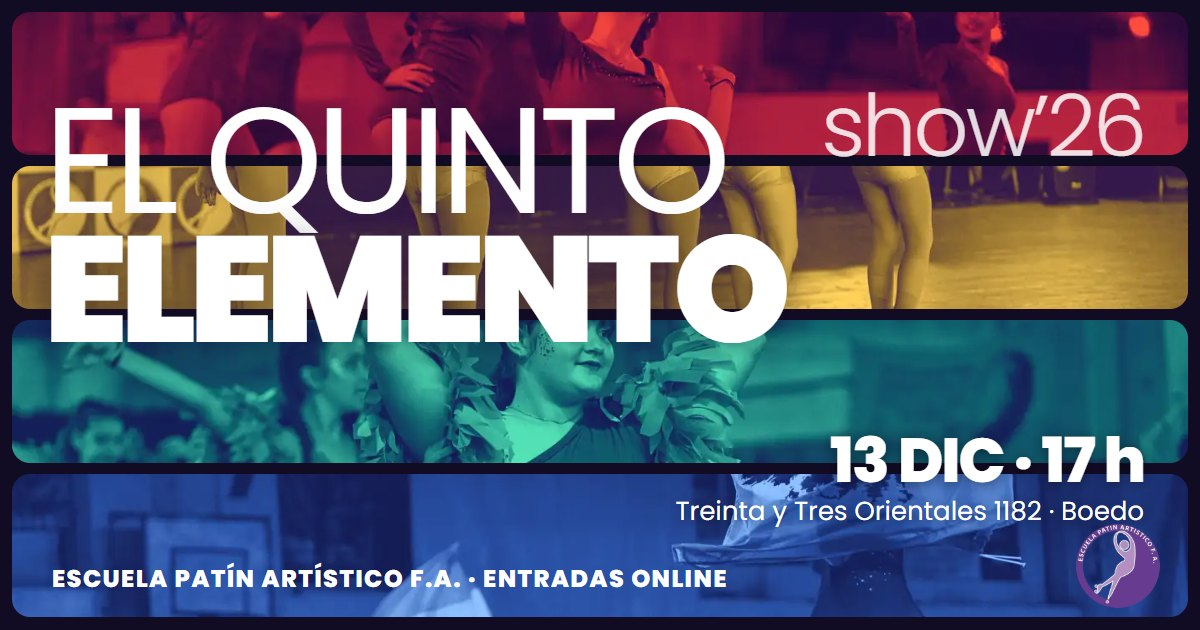
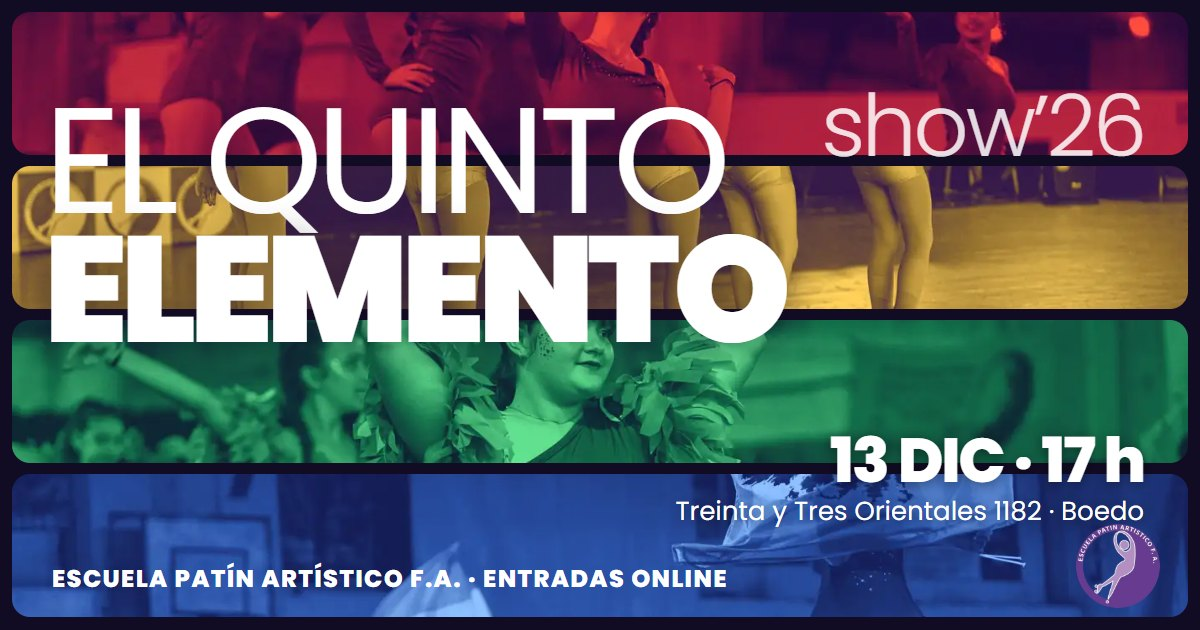
Correcciones de Flor: colores de los elementos, desde 11 años, 200 patinadoras, patinadores sin cargo, compra segura y redes

Changed region(s): [[0.0, 0.4825, 1.0, 0.754]]

diff --git a/index.html b/index.html
@@ -25,10 +25,11 @@
 @property --giro{syntax:"<angle>";inherits:false;initial-value:0deg}
 @property --n{syntax:"<integer>";inherits:true;initial-value:1}
 :root{
-  --fuego:#ff4a3d; --tierra:#ffc53d; --agua:#3fd6ae; --aire:#7fb2ff; --quinto:#cfa8f2; --violeta:#663B8F;
+  /* Colores de Flor: rojo fuego, amarillo aire, verde tierra, azul agua (y el violeta de la marca). */
+  --fuego:#ff4a3d; --aire:#ffc53d; --tierra:#4cd98a; --agua:#5b9cff; --quinto:#cfa8f2; --violeta:#663B8F;
   --noche:#120b24; --noche-2:#1b1236; --noche-3:#271a4c; --tinta:#f7f2fc; --gris:#bcb1d6;
   /* Variantes derivadas de cada color (color relativo): sin inventar códigos a mano. */
-  --fuego-osc:#8a1a2a; --tierra-osc:#7a5410; --agua-osc:#0d5c55; --aire-osc:#21407e;
+  --fuego-osc:#8a1a2a; --aire-osc:#7a5410; --tierra-osc:#0d5c3a; --agua-osc:#21407e;
   --f:'Poppins',system-ui,sans-serif;
   --borde:16px; --hueco:7px;
 }
@@ -58,13 +59,13 @@ h2,h3{text-wrap:balance;}
 .banda:nth-child(2){--n:2}.banda:nth-child(3){--n:3}.banda:nth-child(4){--n:4}
 @supports (order:sibling-index()){ .banda{--n:sibling-index();} }
 .fuego{--c:var(--fuego);--c-osc:var(--fuego-osc);} .fuego img{object-position:50% 40%;}
-.tierra{--c:var(--tierra);--c-osc:var(--tierra-osc);} .tierra img{object-position:50% 55%;}
-.agua{--c:var(--agua);--c-osc:var(--agua-osc);} .agua img{object-position:50% 30%;}
-.aire{--c:var(--aire);--c-osc:var(--aire-osc);} .aire img{object-position:50% 35%;}
+.aire{--c:var(--aire);--c-osc:var(--aire-osc);} .aire img{object-position:50% 55%;}
+.tierra{--c:var(--tierra);--c-osc:var(--tierra-osc);} .tierra img{object-position:50% 30%;}
+.agua{--c:var(--agua);--c-osc:var(--agua-osc);} .agua img{object-position:50% 35%;}
 .rotulo{position:absolute;left:14px;top:10px;font-weight:600;font-size:11px;letter-spacing:.32em;text-transform:uppercase;color:#fff;opacity:.85;
   text-shadow:0 1px 8px rgba(0,0,0,.5);}
 .rotulo b{font-weight:900;margin-right:6px;color:var(--c);}
-.tierra .rotulo{top:auto;bottom:10px;}   /* arriba lo tapa "ELEMENTO" */
+.banda:nth-child(2) .rotulo{top:auto;bottom:10px;left:auto;right:14px;}   /* arriba lo tapa "ELEMENTO"; a la izquierda, la ráfaga del borde */
 
 /* El borde de abajo de cada banda tiene la forma de su elemento (shape(): se adapta al ancho). */
 @supports (clip-path:shape(from 0 0, line to 100% 0)){
@@ -115,7 +116,7 @@ h1 .grueso span:nth-child(5){--k:4}h1 .grueso span:nth-child(6){--k:5}h1 .grueso
 .comprar{position:relative;display:inline-flex;flex-direction:column;align-items:flex-start;gap:2px;text-decoration:none;color:#fff;
   padding:14px 22px 13px;border-radius:999px;border:3px solid transparent;font-weight:800;font-size:17px;letter-spacing:.02em;line-height:1.1;
   background:linear-gradient(var(--violeta),var(--violeta)) padding-box,
-             conic-gradient(from var(--giro),var(--fuego),var(--tierra),var(--agua),var(--aire),var(--quinto),var(--fuego)) border-box;
+             conic-gradient(from var(--giro),var(--fuego),var(--aire),var(--tierra),var(--agua),var(--quinto),var(--fuego)) border-box;
   box-shadow:0 12px 34px rgba(102,59,143,.55);animation:aro 5s linear infinite;}
 .comprar small{font-weight:400;font-size:12.5px;letter-spacing:.04em;opacity:.9;}
 .comprar:focus-visible{outline:3px solid #fff;outline-offset:3px;}
@@ -150,13 +151,17 @@ h2 em{font-style:normal;font-weight:300;}
 .reglas{display:grid;gap:10px;margin-top:6px;}
 .regla{display:flex;gap:12px;align-items:flex-start;background:rgba(255,255,255,.04);border-radius:16px;padding:13px 15px;font-size:15px;}
 .regla i{font-style:normal;font-size:20px;line-height:1.3;}
+.seguro{display:grid;grid-template-columns:34px 1fr;gap:12px;align-items:start;margin-top:14px;padding:15px 16px;border-radius:16px;font-size:14.5px;
+  background:color-mix(in srgb,var(--tierra) 10%,transparent);border:1.5px solid color-mix(in srgb,var(--tierra) 55%,transparent);}
+.seguro svg{width:34px;height:34px;color:var(--tierra);}
+.seguro b{color:var(--tierra);}
 .accion{display:flex;flex-wrap:wrap;align-items:center;gap:14px;margin-top:22px;}
 .cuenta{font-size:14px;color:var(--gris);}
 .cuenta b{color:var(--tinta);}
 .pasos{counter-reset:p;display:grid;gap:10px;margin-top:30px;}
 .pasos li{list-style:none;counter-increment:p;display:grid;grid-template-columns:42px 1fr;gap:12px;align-items:start;font-size:15px;}
 .pasos li::before{content:counter(p);display:grid;place-items:center;width:42px;height:42px;border-radius:50%;font-weight:800;color:#1a0f33;background:var(--c,var(--quinto));}
-.pasos li:nth-child(1){--c:var(--fuego)}.pasos li:nth-child(2){--c:var(--tierra)}.pasos li:nth-child(3){--c:var(--agua)}
+.pasos li:nth-child(1){--c:var(--fuego)}.pasos li:nth-child(2){--c:var(--aire)}.pasos li:nth-child(3){--c:var(--tierra)}
 .pasos b{display:block;font-size:16px;}
 
 /* Los cinco elementos: fichas y panel. La ficha elegida "entra" con @starting-style. */
@@ -237,6 +242,23 @@ h2 em{font-style:normal;font-weight:300;}
 .cifra b{display:block;font-weight:900;font-size:clamp(26px,7vw,40px);letter-spacing:-.03em;line-height:1;background:linear-gradient(90deg,var(--c1),var(--c2));
   -webkit-background-clip:text;background-clip:text;color:transparent;}
 .cifra span{font-size:13px;color:var(--gris);}
+/* Redes de la escuela: íconos con los colores de cada marca */
+.redes{display:flex;flex-wrap:wrap;gap:10px;margin-top:14px;}
+.red{display:inline-flex;align-items:center;gap:10px;text-decoration:none;color:var(--tinta);background:rgba(255,255,255,.06);
+  border:1px solid rgba(255,255,255,.12);border-radius:16px;padding:8px 16px 8px 8px;transition:background .25s,translate .25s;}
+.red:hover{background:rgba(255,255,255,.12);translate:0 -2px;}
+.red:focus-visible{outline:3px solid var(--quinto);outline-offset:2px;}
+.red span{display:grid;place-items:center;width:42px;height:42px;border-radius:12px;color:#fff;flex:none;}
+.red svg{width:24px;height:24px;}
+.red b{display:block;font-size:15px;line-height:1.1;}
+.red small{display:block;font-size:12px;color:var(--gris);}
+.red.ig span{background:radial-gradient(circle at 30% 107%,#fdf497 0%,#fd5949 45%,#d6249f 60%,#285AEB 90%);}
+.red.tt span{background:#000;}
+.red.tt svg{filter:drop-shadow(-1.5px -1px 0 #25f4ee) drop-shadow(1.5px 1px 0 #fe2c55);}
+.redes.chicas .red{padding:5px 13px 5px 5px;border-radius:12px;font-weight:600;font-size:14px;}
+.redes.chicas .red span{width:32px;height:32px;border-radius:9px;}
+.redes.chicas .red svg{width:18px;height:18px;}
+footer .redes{margin-top:4px;}
 .sedes{display:flex;flex-wrap:wrap;gap:6px;margin-top:16px;}
 .sedes span{font-size:13px;border:1px solid rgba(255,255,255,.14);border-radius:99px;padding:5px 12px;color:var(--gris);}
 .lugar{display:grid;grid-template-columns:1fr 1fr;gap:18px;align-items:start;margin-top:20px;}
@@ -284,13 +306,18 @@ footer .envase{display:grid;gap:8px;}
 </style>
 </head>
 <body>
+<!-- Íconos de las redes de la escuela (se usan con <use href="#i-ig">) -->
+<svg width="0" height="0" style="position:absolute" aria-hidden="true" focusable="false">
+  <symbol id="i-ig" viewBox="0 0 24 24"><rect x="3" y="3" width="18" height="18" rx="5.5" fill="none" stroke="currentColor" stroke-width="2.2"/><circle cx="12" cy="12" r="4.3" fill="none" stroke="currentColor" stroke-width="2.2"/><circle cx="17.4" cy="6.6" r="1.35" fill="currentColor"/></symbol>
+  <symbol id="i-tt" viewBox="0 0 24 24"><path fill="currentColor" d="M12.525.02c1.31-.02 2.61-.01 3.91-.02.08 1.53.63 3.09 1.75 4.17 1.12 1.11 2.7 1.62 4.24 1.79v4.03c-1.44-.05-2.89-.35-4.2-.97-.57-.26-1.1-.59-1.62-.93-.01 2.92.01 5.84-.02 8.75-.08 1.4-.54 2.79-1.35 3.94-1.31 1.92-3.58 3.17-5.91 3.21-1.43.08-2.86-.31-4.08-1.03-2.02-1.19-3.44-3.37-3.65-5.71-.02-.5-.03-1-.01-1.49.18-1.9 1.12-3.72 2.58-4.96 1.66-1.44 3.98-2.13 6.15-1.72.02 1.48-.04 2.96-.04 4.44-.99-.32-2.15-.23-3.02.37-.63.41-1.11 1.04-1.36 1.75-.21.51-.15 1.07-.14 1.61.24 1.64 1.82 3.02 3.5 2.87 1.12-.01 2.19-.66 2.77-1.61.19-.33.4-.67.41-1.06.1-1.79.06-3.57.07-5.36.01-4.03-.01-8.05.02-12.07z"/></symbol>
+</svg>
 <a class="saltar" href="#entradas">Ir a las entradas</a>
 
 <header class="portada" id="portada">
   <figure class="banda fuego" aria-hidden="true"><img src="assets/fotos/el-fuego-700.webp" srcset="assets/fotos/el-fuego-700.webp 700w, assets/fotos/el-fuego-1400.webp 1400w" sizes="100vw" alt="" fetchpriority="high"><span class="rotulo"><b>01</b>Fuego</span></figure>
-  <figure class="banda tierra" aria-hidden="true"><img src="assets/fotos/el-tierra-700.webp" srcset="assets/fotos/el-tierra-700.webp 700w, assets/fotos/el-tierra-1400.webp 1400w" sizes="100vw" alt=""><span class="rotulo"><b>02</b>Tierra</span></figure>
-  <figure class="banda agua" aria-hidden="true"><img src="assets/fotos/el-agua-700.webp" srcset="assets/fotos/el-agua-700.webp 700w, assets/fotos/el-agua-1400.webp 1400w" sizes="100vw" alt=""><span class="rotulo"><b>03</b>Agua</span></figure>
-  <figure class="banda aire" aria-hidden="true"><img src="assets/fotos/el-aire-700.webp" srcset="assets/fotos/el-aire-700.webp 700w, assets/fotos/el-aire-1400.webp 1400w" sizes="100vw" alt=""><span class="rotulo"><b>04</b>Aire</span></figure>
+  <figure class="banda aire" aria-hidden="true"><img src="assets/fotos/el-aire-700.webp" srcset="assets/fotos/el-aire-700.webp 700w, assets/fotos/el-aire-1400.webp 1400w" sizes="100vw" alt=""><span class="rotulo"><b>02</b>Aire</span></figure>
+  <figure class="banda tierra" aria-hidden="true"><img src="assets/fotos/el-tierra-700.webp" srcset="assets/fotos/el-tierra-700.webp 700w, assets/fotos/el-tierra-1400.webp 1400w" sizes="100vw" alt=""><span class="rotulo"><b>03</b>Tierra</span></figure>
+  <figure class="banda agua" aria-hidden="true"><img src="assets/fotos/el-agua-700.webp" srcset="assets/fotos/el-agua-700.webp 700w, assets/fotos/el-agua-1400.webp 1400w" sizes="100vw" alt=""><span class="rotulo"><b>04</b>Agua</span></figure>
 
   <div class="texto">
     <p class="show" aria-hidden="true">show<span>’26</span></p>
@@ -317,8 +344,15 @@ footer .envase{display:grid;gap:8px;}
       </div>
 
       <div class="reglas">
-        <p class="regla"><i aria-hidden="true">🪪</i><span><b>Pagan entrada desde los 10 años</b>, presentándose con DNI. Menores de 10, sin cargo.</span></p>
+        <p class="regla"><i aria-hidden="true">🪪</i><span><b>Pagan entrada desde los 11 años</b>, presentándose con DNI. Los menores de 11 no pagan.</span></p>
+        <p class="regla"><i aria-hidden="true">🛼</i><span><b>Las y los patinadores del show no pagan entrada.</b></span></p>
         <p class="regla"><i aria-hidden="true">🏦</i><span>Transferí desde <b>una cuenta a tu nombre</b> (la del DNI que cargás): así el pago se reconoce solo.</span></p>
+      </div>
+
+      <div class="seguro">
+        <svg viewBox="0 0 24 24" aria-hidden="true"><path d="M12 2 4 5v6c0 5 3.4 9.4 8 11 4.6-1.6 8-6 8-11V5l-8-3Z" fill="none" stroke="currentColor" stroke-width="2" stroke-linejoin="round"/><path d="m8.5 12 2.5 2.5 4.5-5" fill="none" stroke="currentColor" stroke-width="2" stroke-linecap="round" stroke-linejoin="round"/></svg>
+        <p><b>Comprá solo en esta página.</b> Es la única venta oficial de entradas anticipadas (el domingo también se venden en la puerta).
+          Para mandarte el QR te pedimos solo tu nombre, tu DNI y tu mail: nunca te vamos a pedir claves, códigos ni datos de tu banco o tu tarjeta.</p>
       </div>
 
       <div class="accion">
@@ -334,9 +368,9 @@ footer .envase{display:grid;gap:8px;}
 
       <div class="preguntas">
         <button popovertarget="p-quien" style="--c:var(--fuego)">¿Quiénes pagan entrada?</button>
-        <button popovertarget="p-cuenta" style="--c:var(--tierra)">¿Y si transfiero desde otra cuenta?</button>
-        <button popovertarget="p-puerta" style="--c:var(--agua)">¿Se puede comprar en la puerta?</button>
-        <button popovertarget="p-mail" style="--c:var(--aire)">No me llegó el mail</button>
+        <button popovertarget="p-cuenta" style="--c:var(--aire)">¿Y si transfiero desde otra cuenta?</button>
+        <button popovertarget="p-puerta" style="--c:var(--tierra)">¿Se puede comprar en la puerta?</button>
+        <button popovertarget="p-mail" style="--c:var(--agua)">No me llegó el mail</button>
       </div>
     </div>
   </section>
@@ -348,9 +382,9 @@ footer .envase{display:grid;gap:8px;}
       <h2>Cuatro elementos <em>y uno más</em></h2>
       <div class="chips" role="group" aria-label="Elegí un elemento">
         <button class="chip c-fuego" data-el="fuego" aria-pressed="true">Fuego</button>
+        <button class="chip c-aire" data-el="aire" aria-pressed="false">Aire</button>
         <button class="chip c-tierra" data-el="tierra" aria-pressed="false">Tierra</button>
         <button class="chip c-agua" data-el="agua" aria-pressed="false">Agua</button>
-        <button class="chip c-aire" data-el="aire" aria-pressed="false">Aire</button>
         <button class="chip c-quinto" data-el="quinto" aria-pressed="false">El quinto</button>
       </div>
       <div class="panel" id="panel" style="--c:var(--fuego)">
@@ -376,8 +410,12 @@ footer .envase{display:grid;gap:8px;}
         </div>
         <div>
           <h3 style="font-weight:800;font-size:24px;">Un domingo en ocho ruedas</h3>
-          <p>Más de 150 patinadoras de las cinco sedes de la escuela, en una misma pista. Este año, el show se llama El Quinto Elemento.</p>
-          <p style="margin-top:10px;"><a href="https://instagram.com/patin_fa" target="_blank" rel="noopener">Más videos en @patin_fa</a></p>
+          <p>200 patinadoras de las cinco sedes de la escuela, en una misma pista. Este año, el show se llama El Quinto Elemento.</p>
+          <p style="margin-top:14px;">Más videos en nuestras redes:</p>
+          <div class="redes chicas">
+            <a class="red ig" href="https://www.instagram.com/patin_fa" target="_blank" rel="noopener" aria-label="Instagram de la escuela (@patin_fa)"><span><svg aria-hidden="true"><use href="#i-ig"/></svg></span>Instagram</a>
+            <a class="red tt" href="https://www.tiktok.com/@patin_fa" target="_blank" rel="noopener" aria-label="TikTok de la escuela (@patin_fa)"><span><svg aria-hidden="true"><use href="#i-tt"/></svg></span>TikTok</a>
+          </div>
         </div>
       </div>
     </div>
@@ -391,11 +429,15 @@ footer .envase{display:grid;gap:8px;}
         <div>
           <p class="antetitulo">Organiza</p>
           <h2 style="margin-bottom:6px;">Escuela Patín Artístico F.A.</h2>
+          <div class="redes">
+            <a class="red ig" href="https://www.instagram.com/patin_fa" target="_blank" rel="noopener" aria-label="Instagram de la escuela (@patin_fa)"><span><svg aria-hidden="true"><use href="#i-ig"/></svg></span><b>@patin_fa</b><small>Instagram</small></a>
+            <a class="red tt" href="https://www.tiktok.com/@patin_fa" target="_blank" rel="noopener" aria-label="TikTok de la escuela (@patin_fa)"><span><svg aria-hidden="true"><use href="#i-tt"/></svg></span><b>@patin_fa</b><small>TikTok</small></a>
+          </div>
         </div>
       </div>
       <div class="cifras">
-        <div class="cifra" style="--c1:var(--fuego);--c2:var(--tierra)"><b>+150</b><span>patinadoras</span></div>
-        <div class="cifra" style="--c1:var(--agua);--c2:var(--aire)"><b>5</b><span>sedes en CABA</span></div>
+        <div class="cifra" style="--c1:var(--fuego);--c2:var(--aire)"><b>200</b><span>patinadoras</span></div>
+        <div class="cifra" style="--c1:var(--tierra);--c2:var(--agua)"><b>5</b><span>sedes en CABA</span></div>
       </div>
       <div class="sedes">
         <span>Floresta · Club Nueva Generación</span><span>Boedo · Club Nueva Generación</span><span>Nueva Pompeya · Club San Jorge</span>
@@ -449,7 +491,11 @@ footer .envase{display:grid;gap:8px;}
 <footer>
   <div class="envase">
     <b style="color:var(--tinta)">El Quinto Elemento · Show ’26</b>
-    <span>Organiza la Escuela Patín Artístico F.A. · <a href="https://instagram.com/patin_fa" target="_blank" rel="noopener">@patin_fa</a></span>
+    <span>Organiza la Escuela Patín Artístico F.A.</span>
+    <div class="redes chicas">
+      <a class="red ig" href="https://www.instagram.com/patin_fa" target="_blank" rel="noopener" aria-label="Instagram de la escuela (@patin_fa)"><span><svg aria-hidden="true"><use href="#i-ig"/></svg></span>Instagram</a>
+      <a class="red tt" href="https://www.tiktok.com/@patin_fa" target="_blank" rel="noopener" aria-label="TikTok de la escuela (@patin_fa)"><span><svg aria-hidden="true"><use href="#i-tt"/></svg></span>TikTok</a>
+    </div>
     <span>Las entradas se venden solo en esta página. <a id="recuperar" href="/mis-entradas">¿Ya compraste? Recuperá tus entradas</a></span>
   </div>
 </footer>
@@ -461,21 +507,22 @@ footer .envase{display:grid;gap:8px;}
 
 <!-- Ventanas -->
 <div popover id="p-quien" style="--c:var(--fuego)"><h3>¿Quiénes pagan entrada?</h3>
-  <p>Pagan desde los 10 años y tienen que presentarse con DNI. Los menores de 10 entran sin cargo y no necesitan entrada.</p>
+  <p>Pagan entrada desde los 11 años, presentándose con DNI. Los menores de 11 no pagan y no necesitan entrada.</p>
+  <p>Las y los patinadores que se presentan en el show tampoco pagan entrada.</p>
   <button class="cerrar" popovertarget="p-quien" popovertargetaction="hide">Entendido</button></div>
-<div popover id="p-cuenta" style="--c:var(--tierra)"><h3>¿Y si transfiero desde otra cuenta?</h3>
+<div popover id="p-cuenta" style="--c:var(--aire)"><h3>¿Y si transfiero desde otra cuenta?</h3>
   <p>El pago se reconoce solo cuando la cuenta que transfiere es del mismo DNI que cargaste. Si pagás desde otra cuenta (la de un familiar, por ejemplo), la plata llega igual, pero la entrada no sale sola: la escuela la asigna a mano y puede demorar.</p>
   <p>Lo más fácil: cargá el DNI del titular de la cuenta con la que vas a pagar.</p>
   <button class="cerrar" popovertarget="p-cuenta" popovertargetaction="hide">Entendido</button></div>
-<div popover id="p-puerta" style="--c:var(--agua)"><h3>¿Se puede comprar en la puerta?</h3>
+<div popover id="p-puerta" style="--c:var(--tierra)"><h3>¿Se puede comprar en la puerta?</h3>
   <p id="p-puerta-txt">Sí, el domingo en la puerta, al precio del día. Online es más barato y te ahorrás la fila.</p>
   <button class="cerrar" popovertarget="p-puerta" popovertargetaction="hide">Entendido</button></div>
-<div popover id="p-mail" style="--c:var(--aire)"><h3>No me llegó el mail</h3>
+<div popover id="p-mail" style="--c:var(--agua)"><h3>No me llegó el mail</h3>
   <p>Revisá en "Spam" o "Promociones". También podés recuperar tus entradas con tu mail y tu DNI en <a href="/mis-entradas">Mis entradas</a>.</p>
   <button class="cerrar" popovertarget="p-mail" popovertargetaction="hide">Entendido</button></div>
 <div popover id="visor" aria-label="Foto del show 2025"><img id="visor-img" alt=""><button class="cerrar" type="button" commandfor="visor" command="hide-popover">Cerrar</button></div>
 
-<script>window.VISTA_PREVIA = {"sitio":{"nombre":"El Quinto Elemento · Show '26","lema":"Escuela Patín Artístico F.A.","organiza":"Escuela Patín Artístico F.A.","lugar":"Boedo","direccion":"Treinta y Tres Orientales 1182, esquina Constitución","ciudad":"Boedo, CABA","instagram":"patin_fa","ayudaWhatsapp":"","menores":"Pagan entrada desde los 10 años (presentarse con DNI). Menores de 10, sin cargo.","modo":"gala","precioIncluyeCargo":true,"sobre":null,"facebook":"","destacados":[],"feriantes":null},"eventos":[{"id":"2026-12-13-el-quinto-elemento","nombre":"El Quinto Elemento","subtitulo":"Show '26 · Escuela Patín Artístico F.A.","fecha":"2026-12-13","hora":"17:00","cuando":"domingo 13 de diciembre · 17:00 h","puertas":"16 h","artistas":[],"descripcion":null,"imagen":null,"nota":null,"vendible":true,"ventaHasta":"2026-12-12","externo":null,"tipos":{"general":{"nombre":"Entrada general","corto":"General","detalle":"Desde 10 años, con DNI","precio":20000,"final":20000,"estado":"disponible","etapas":[{"hasta":"2026-11-30","nombre":"Noviembre","final":20000,"vigente":true,"paso":false},{"hasta":"2026-12-12","nombre":"Diciembre","final":24000,"vigente":false,"paso":false}],"finalDespues":26000}}}],"vistaPrevia":true};</script>
+<script>window.VISTA_PREVIA = {"sitio":{"nombre":"El Quinto Elemento · Show '26","lema":"Escuela Patín Artístico F.A.","organiza":"Escuela Patín Artístico F.A.","lugar":"Boedo","direccion":"Treinta y Tres Orientales 1182, esquina Constitución","ciudad":"Boedo, CABA","instagram":"patin_fa","ayudaWhatsapp":"","menores":"Pagan entrada desde los 11 años (presentarse con DNI). Menores de 11 y patinadoras/es del show, sin cargo.","modo":"gala","precioIncluyeCargo":true,"sobre":null,"facebook":"","destacados":[],"feriantes":null},"eventos":[{"id":"2026-12-13-el-quinto-elemento","nombre":"El Quinto Elemento","subtitulo":"Show '26 · Escuela Patín Artístico F.A.","fecha":"2026-12-13","hora":"17:00","cuando":"domingo 13 de diciembre · 17:00 h","puertas":"16 h","artistas":[],"descripcion":null,"imagen":null,"nota":null,"vendible":true,"ventaHasta":"2026-12-12","externo":null,"tipos":{"general":{"nombre":"Entrada general","corto":"General","detalle":"Desde 11 años, con DNI","precio":20000,"final":20000,"estado":"disponible","etapas":[{"hasta":"2026-11-30","nombre":"Noviembre","final":20000,"vigente":true,"paso":false},{"hasta":"2026-12-12","nombre":"Diciembre","final":24000,"vigente":false,"paso":false}],"finalDespues":26000}}}],"vistaPrevia":true};</script>
 <script>
 const $ = s => document.querySelector(s), $$ = s => [...document.querySelectorAll(s)];
 const pesos = n => '$' + Number(n).toLocaleString('es-AR');
@@ -630,7 +677,7 @@ function cubrir(img, x, y, w, h, py = .4) {
 async function dibujar() {
   if (!fotosYV) {
     await Promise.all(['300 80px Poppins', '400 80px Poppins', '900 80px Poppins'].map(f => document.fonts.load(f)));
-    fotosYV = await Promise.all(['fuego', 'tierra', 'agua', 'aire'].map(n => cargar(`assets/fotos/el-${n}-700.webp`)));
+    fotosYV = await Promise.all(['fuego', 'aire', 'tierra', 'agua'].map(n => cargar(`assets/fotos/el-${n}-700.webp`)));
   }
   const W = 1080, H = 1920, m = 48, g = 18, bh = 300;
   cx.fillStyle = '#120b24'; cx.fillRect(0, 0, W, H);
@@ -644,7 +691,7 @@ async function dibujar() {
   cx.shadowBlur = 0;
   const y0 = m + 4 * (bh + g) + 40;
   const grad = cx.createLinearGradient(80, 0, W - 80, 0);
-  ['#ff4a3d', '#ffc53d', '#3fd6ae', '#7fb2ff', '#cfa8f2'].forEach((c, i) => grad.addColorStop(i / 4, c));
+  ['#ff4a3d', '#ffc53d', '#4cd98a', '#5b9cff', '#cfa8f2'].forEach((c, i) => grad.addColorStop(i / 4, c));
   cx.fillStyle = grad; cx.textAlign = 'center'; cx.font = '900 210px Poppins'; cx.fillText('YO VOY', W / 2, y0 + 190);
   const nombre = $('#yv-nombre').value.trim().slice(0, 22);
   cx.fillStyle = '#f7f2fc'; cx.font = '400 62px Poppins';
